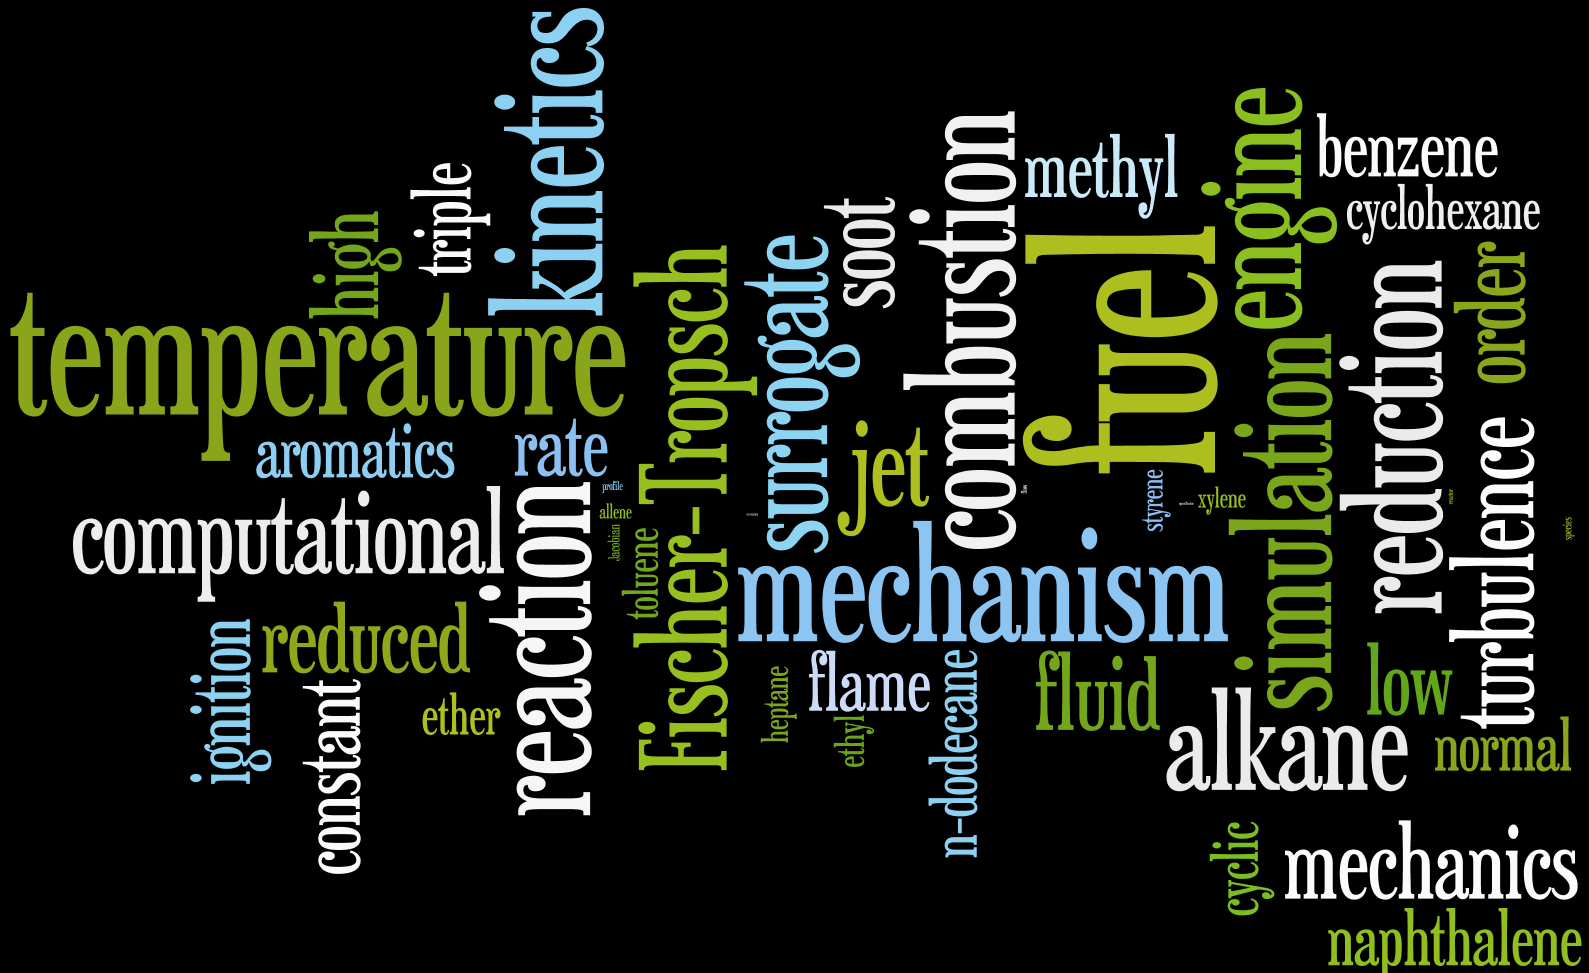
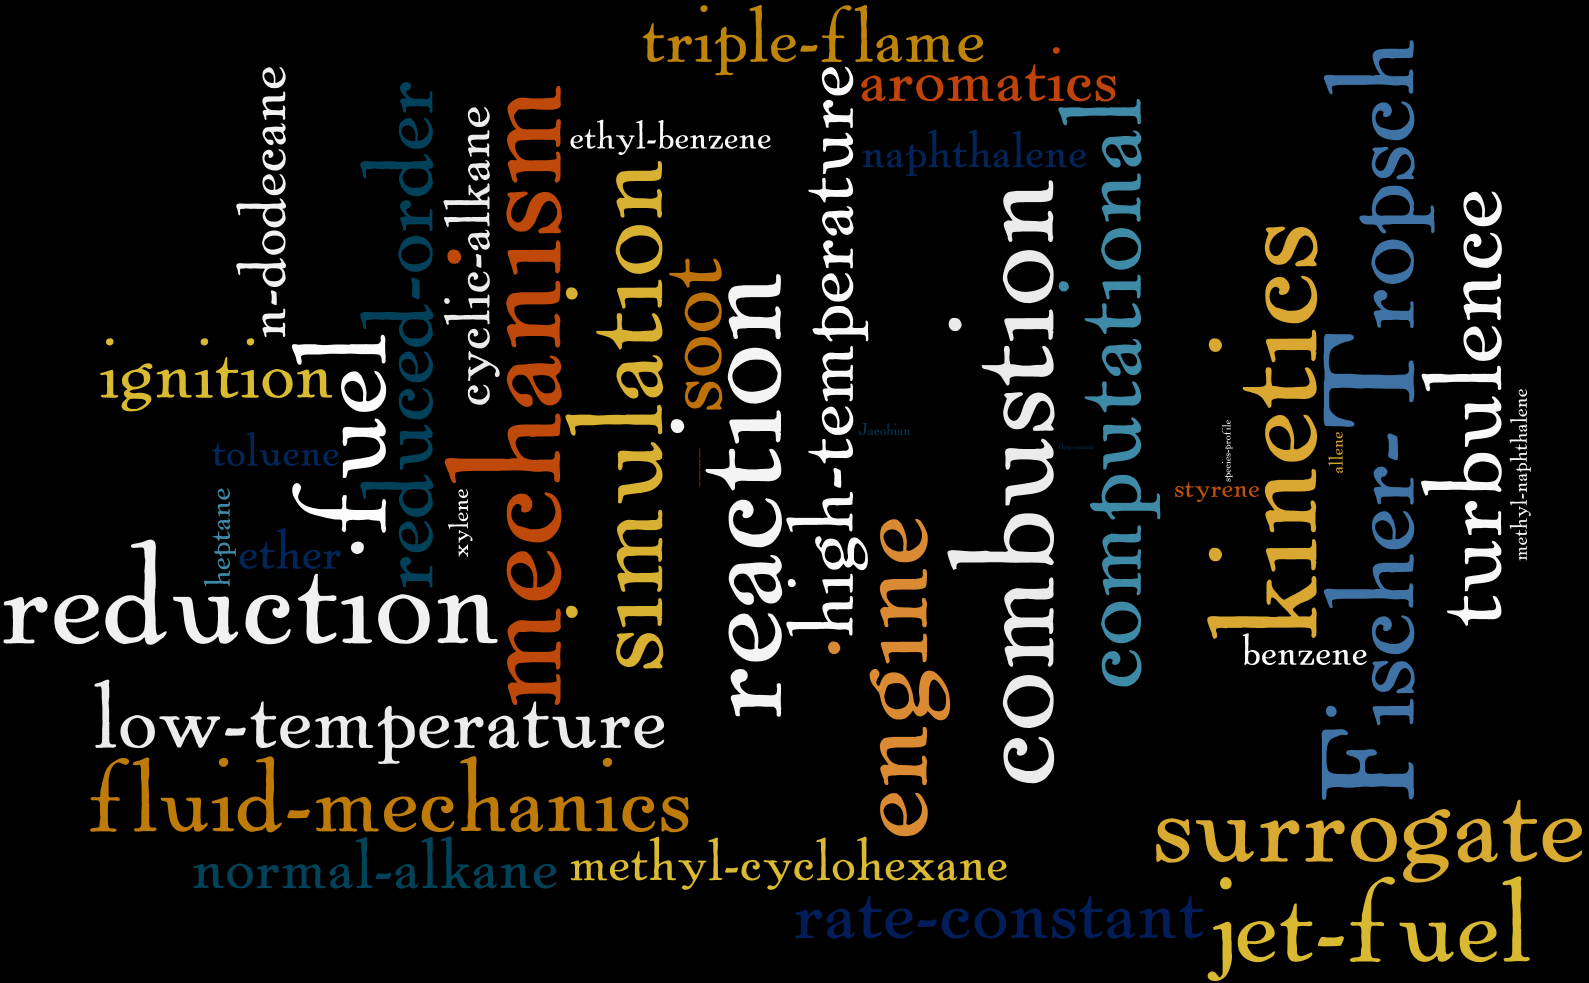
wordle

Changed region(s): [[0.0, 0.0, 1.0, 1.0], [0.7401, 0.9866, 0.7709, 1.0]]

diff --git a/wordle.cpp b/wordle.cpp
@@ -16,36 +16,36 @@ int main() {
 		"fuel",
 		"surrogate",
 		"Fischer-Tropsch",
-		"jet fuel",
+		"jet-fuel",
 		"computational",
 		"turbulence",
 		"soot",
-		"fluid mechanics",
-		"reduced order",
-		"low temperature",
-		"high temperature",
-		"rate constant",
+		"fluid-mechanics",
+		"reduced-order",
+		"low-temperature",
+		"high-temperature",
+		"rate-constant",
 		"ignition",
-		"triple flame",
+		"triple-flame",
 		"aromatics",
-		"normal alkane",
+		"normal-alkane",
 		"n-dodecane",
-		"cyclic alkane",
-		"methyl cyclohexane",
+		"cyclic-alkane",
+		"methyl-cyclohexane",
 		"ether",
 		"naphthalene",
 		"toluene",
 		"benzene",
-		"ethyl benzene",
+		"ethyl-benzene",
 		"heptane",
 		"styrene",
 		"xylene",
-		"methyl naphthalene",
+		"methyl-naphthalene",
 		"allene",
 		"Jacobian",
-		"species profile",
-		"flow reactor",
-		"uncertainty quantification"};
+		"species-profile",
+		"flow-reactor",
+		"uncertainty-quantification"};
 	for(unsigned k=0; k<N; ++k) {
 		for(unsigned j=0;j<N-k; ++j) {
 			cout << buzzword[k] << " ";
